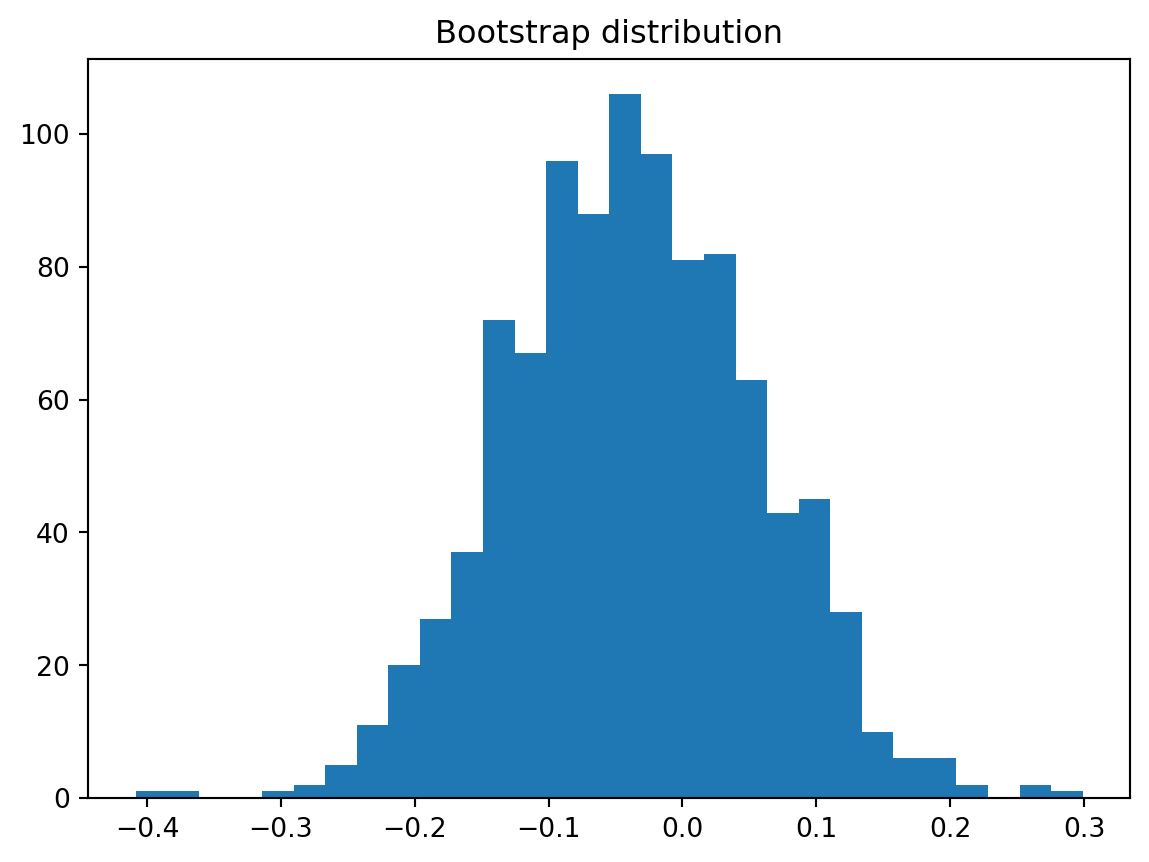
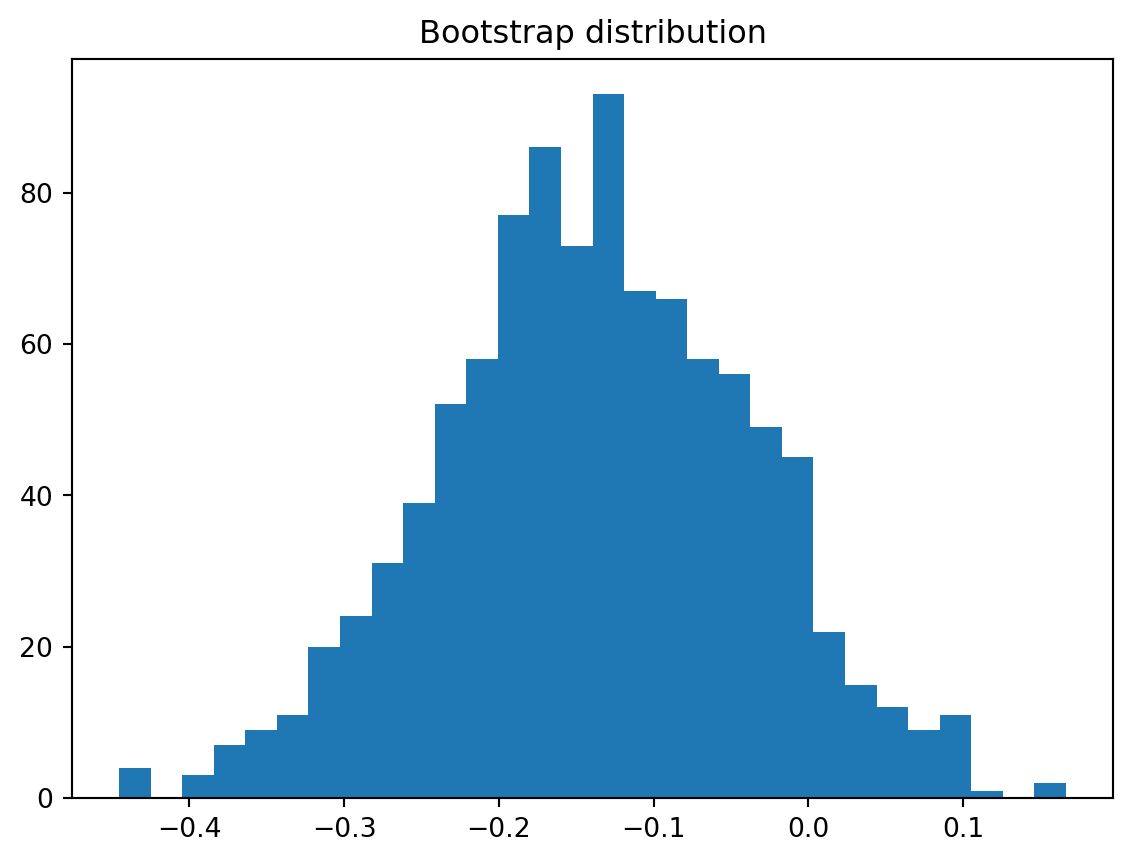
force rebuild

diff --git a/docs/posts/hw2/index.html b/docs/posts/hw2/index.html
@@ -216,7 +216,7 @@ pre > code.sourceCode > span > a:first-child::before { text-decoration: underlin
 </section>
 <section id="load-packages" class="level2">
 <h2 class="anchored" data-anchor-id="load-packages">Load packages</h2>
-<div id="c2c82da7" class="cell" data-execution_count="1">
+<div id="1e2c8d05" class="cell" data-execution_count="1">
 <div class="code-copy-outer-scaffold"><div class="sourceCode cell-code" id="cb1"><pre class="sourceCode python code-with-copy"><code class="sourceCode python"><span id="cb1-1"><a href="#cb1-1" aria-hidden="true" tabindex="-1"></a><span class="im">import</span> pandas <span class="im">as</span> pd</span>
 <span id="cb1-2"><a href="#cb1-2" aria-hidden="true" tabindex="-1"></a><span class="im">import</span> numpy <span class="im">as</span> np</span>
 <span id="cb1-3"><a href="#cb1-3" aria-hidden="true" tabindex="-1"></a><span class="im">import</span> statsmodels.api <span class="im">as</span> sm</span>
@@ -225,7 +225,7 @@ pre > code.sourceCode > span > a:first-child::before { text-decoration: underlin
 </section>
 <section id="load-the-data" class="level2">
 <h2 class="anchored" data-anchor-id="load-the-data">Load the data</h2>
-<div id="85c082a1" class="cell" data-execution_count="2">
+<div id="ce79619f" class="cell" data-execution_count="2">
 <div class="code-copy-outer-scaffold"><div class="sourceCode cell-code" id="cb2"><pre class="sourceCode python code-with-copy"><code class="sourceCode python"><span id="cb2-1"><a href="#cb2-1" aria-hidden="true" tabindex="-1"></a>data_path <span class="op">=</span> Path(<span class="st">"public.dat"</span>)</span>
 <span id="cb2-2"><a href="#cb2-2" aria-hidden="true" tabindex="-1"></a></span>
 <span id="cb2-3"><a href="#cb2-3" aria-hidden="true" tabindex="-1"></a>colspecs <span class="op">=</span> [</span>
@@ -269,7 +269,7 @@ pre > code.sourceCode > span > a:first-child::before { text-decoration: underlin
 </section>
 <section id="construct-key-variables" class="level2">
 <h2 class="anchored" data-anchor-id="construct-key-variables">Construct key variables</h2>
-<div id="08adf55a" class="cell" data-execution_count="3">
+<div id="d19e8e89" class="cell" data-execution_count="3">
 <div class="code-copy-outer-scaffold"><div class="sourceCode cell-code" id="cb4"><pre class="sourceCode python code-with-copy"><code class="sourceCode python"><span id="cb4-1"><a href="#cb4-1" aria-hidden="true" tabindex="-1"></a>df[<span class="st">"fte_before"</span>] <span class="op">=</span> df[<span class="st">"empft"</span>] <span class="op">+</span> df[<span class="st">"nmgrs"</span>] <span class="op">+</span> <span class="fl">0.5</span> <span class="op">*</span> df[<span class="st">"emppt"</span>]</span>
 <span id="cb4-2"><a href="#cb4-2" aria-hidden="true" tabindex="-1"></a>df[<span class="st">"fte_after"</span>] <span class="op">=</span> df[<span class="st">"empft2"</span>] <span class="op">+</span> df[<span class="st">"nmgrs2"</span>] <span class="op">+</span> <span class="fl">0.5</span> <span class="op">*</span> df[<span class="st">"emppt2"</span>]</span>
 <span id="cb4-3"><a href="#cb4-3" aria-hidden="true" tabindex="-1"></a></span>
@@ -341,7 +341,7 @@ pre > code.sourceCode > span > a:first-child::before { text-decoration: underlin
 <h2 class="anchored" data-anchor-id="main-analysis">Main Analysis</h2>
 <p>To make this a real replication, I use the public Card and Krueger data to reproduce key results from the original paper. I focus on Table 3 and Table 4 because these tables summarize the main findings.</p>
 <p>Replicating Table 3</p>
-<div id="f2bf2c82" class="cell" data-execution_count="4">
+<div id="6e70d8e4" class="cell" data-execution_count="4">
 <div class="code-copy-outer-scaffold"><div class="sourceCode cell-code" id="cb5"><pre class="sourceCode python code-with-copy"><code class="sourceCode python"><span id="cb5-1"><a href="#cb5-1" aria-hidden="true" tabindex="-1"></a>pa_before <span class="op">=</span> df.loc[df[<span class="st">"state_name"</span>] <span class="op">==</span> <span class="st">"PA"</span>, <span class="st">"fte_before"</span>].mean()</span>
 <span id="cb5-2"><a href="#cb5-2" aria-hidden="true" tabindex="-1"></a>nj_before <span class="op">=</span> df.loc[df[<span class="st">"state_name"</span>] <span class="op">==</span> <span class="st">"NJ"</span>, <span class="st">"fte_before"</span>].mean()</span>
 <span id="cb5-3"><a href="#cb5-3" aria-hidden="true" tabindex="-1"></a></span>
@@ -399,7 +399,7 @@ pre > code.sourceCode > span > a:first-child::before { text-decoration: underlin
 </div>
 <p>The table above shows the average employment levels before and after the policy change. The original paper reports very similar values (e.g., PA ≈ 23.33 and NJ ≈ 20.44 before the policy change). My replicated results closely match these values, confirming that the data has been processed correctly.</p>
 <p>Replicating Table 4 Column (i)</p>
-<div id="ed1805e9" class="cell" data-execution_count="5">
+<div id="ebb32b72" class="cell" data-execution_count="5">
 <div class="code-copy-outer-scaffold"><div class="sourceCode cell-code" id="cb6"><pre class="sourceCode python code-with-copy"><code class="sourceCode python"><span id="cb6-1"><a href="#cb6-1" aria-hidden="true" tabindex="-1"></a>reg_df <span class="op">=</span> df.loc[</span>
 <span id="cb6-2"><a href="#cb6-2" aria-hidden="true" tabindex="-1"></a>    df[<span class="st">"fte_change"</span>].notna() <span class="op">&amp;</span> df[<span class="st">"state"</span>].notna(),</span>
 <span id="cb6-3"><a href="#cb6-3" aria-hidden="true" tabindex="-1"></a>    [<span class="st">"fte_change"</span>, <span class="st">"state"</span>]</span>

diff --git a/docs/posts/ab-test/index.html b/docs/posts/ab-test/index.html
@@ -274,7 +274,7 @@ SE(\hat{\theta}) = \sqrt{\frac{\hat{p}_A (1 - \hat{p}_A)}{n_A} + \frac{\hat{p}_B
 \]</span></p>
 <p>Here, ( _A ) and ( _B ) are the sample proportions, and ( n_A ) and ( n_B ) are the sample sizes in each group.</p>
 <p>I compare the bootstrap standard error with this analytical formula to see how close they are. If they are similar, it gives more confidence that the bootstrap approach is working as expected.</p>
-<div id="1a627b74" class="cell" data-execution_count="1">
+<div id="dbe37dcd" class="cell" data-execution_count="1">
 <div class="code-copy-outer-scaffold"><div class="sourceCode cell-code" id="cb1"><pre class="sourceCode python code-with-copy"><code class="sourceCode python"><span id="cb1-1"><a href="#cb1-1" aria-hidden="true" tabindex="-1"></a><span class="im">import</span> numpy <span class="im">as</span> np</span>
 <span id="cb1-2"><a href="#cb1-2" aria-hidden="true" tabindex="-1"></a><span class="im">import</span> matplotlib.pyplot <span class="im">as</span> plt</span>
 <span id="cb1-3"><a href="#cb1-3" aria-hidden="true" tabindex="-1"></a></span>
@@ -291,7 +291,7 @@ SE(\hat{\theta}) = \sqrt{\frac{\hat{p}_A (1 - \hat{p}_A)}{n_A} + \frac{\hat{p}_B
 <div class="cell-output cell-output-display">
 <div>
 <figure class="figure">
-<p><img src="index_files/figure-html/cell-2-output-1.png" width="575" height="431" class="figure-img"></p>
+<p><img src="index_files/figure-html/cell-2-output-1.png" width="566" height="431" class="figure-img"></p>
 </figure>
 </div>
 </div>
@@ -304,7 +304,7 @@ SE(\hat{\theta}) = \sqrt{\frac{\hat{p}_A (1 - \hat{p}_A)}{n_A} + \frac{\hat{p}_B
 <p>In this case, I look at the distribution of the estimated difference in means for different sample sizes. When the sample size is small, the distribution looks more irregular and can be somewhat skewed. But as the sample size increases, the distribution becomes more symmetric and bell-shaped.</p>
 <p>This shows that for larger samples, it is reasonable to treat the sampling distribution as approximately normal. This is useful because it allows us to use standard statistical tools that rely on normality.</p>
 <p>The CLT says…</p>
-<div id="741e9c67" class="cell" data-execution_count="2">
+<div id="130d7233" class="cell" data-execution_count="2">
 <div class="code-copy-outer-scaffold"><div class="sourceCode cell-code" id="cb2"><pre class="sourceCode python code-with-copy"><code class="sourceCode python"><span id="cb2-1"><a href="#cb2-1" aria-hidden="true" tabindex="-1"></a><span class="im">import</span> numpy <span class="im">as</span> np</span>
 <span id="cb2-2"><a href="#cb2-2" aria-hidden="true" tabindex="-1"></a><span class="im">import</span> matplotlib.pyplot <span class="im">as</span> plt</span>
 <span id="cb2-3"><a href="#cb2-3" aria-hidden="true" tabindex="-1"></a></span>
@@ -319,7 +319,7 @@ SE(\hat{\theta}) = \sqrt{\frac{\hat{p}_A (1 - \hat{p}_A)}{n_A} + \frac{\hat{p}_B
 <div class="cell-output cell-output-display">
 <div>
 <figure class="figure">
-<p><img src="index_files/figure-html/cell-3-output-1.png" width="566" height="431" class="figure-img"></p>
+<p><img src="index_files/figure-html/cell-3-output-1.png" width="579" height="431" class="figure-img"></p>
 </figure>
 </div>
 </div>
@@ -336,7 +336,7 @@ z = \frac{\hat{\theta} - 0}{SE(\hat{\theta})}
 \]</span></p>
 <p>This tells us how far the estimated difference is from 0 in terms of standard errors. If this value is large in magnitude, it suggests that the observed difference is unlikely to be due to random chance.</p>
 <p>Since the sample size is large, the sampling distribution is approximately normal, so I can use the standard normal distribution to compute a p-value. This helps decide whether there is enough evidence to reject the null hypothesis.</p>
-<div id="3d0c2225" class="cell" data-execution_count="3">
+<div id="8a108c0f" class="cell" data-execution_count="3">
 <div class="code-copy-outer-scaffold"><div class="sourceCode cell-code" id="cb3"><pre class="sourceCode python code-with-copy"><code class="sourceCode python"><span id="cb3-1"><a href="#cb3-1" aria-hidden="true" tabindex="-1"></a><span class="im">from</span> scipy <span class="im">import</span> stats</span>
 <span id="cb3-2"><a href="#cb3-2" aria-hidden="true" tabindex="-1"></a></span>
 <span id="cb3-3"><a href="#cb3-3" aria-hidden="true" tabindex="-1"></a>data <span class="op">=</span> np.random.normal(<span class="dv">0</span>, <span class="dv">1</span>, <span class="dv">100</span>)</span>
@@ -346,7 +346,7 @@ z = \frac{\hat{\theta} - 0}{SE(\hat{\theta})}
 <span id="cb3-7"><a href="#cb3-7" aria-hidden="true" tabindex="-1"></a></span>
 <span id="cb3-8"><a href="#cb3-8" aria-hidden="true" tabindex="-1"></a>z, p_value</span></code></pre></div><button title="Copy to Clipboard" class="code-copy-button"><i class="bi"></i></button></div>
 <div class="cell-output cell-output-display" data-execution_count="3">
-<pre><code>(np.float64(-0.7270222221940587), np.float64(0.4672123427132162))</code></pre>
+<pre><code>(np.float64(0.26393747855806216), np.float64(0.7918280955941044))</code></pre>
 </div>
 </div>
 <p>The p-value tells us whether we reject the null hypothesis. If the p-value is small, we reject the null hypothesis.</p>
